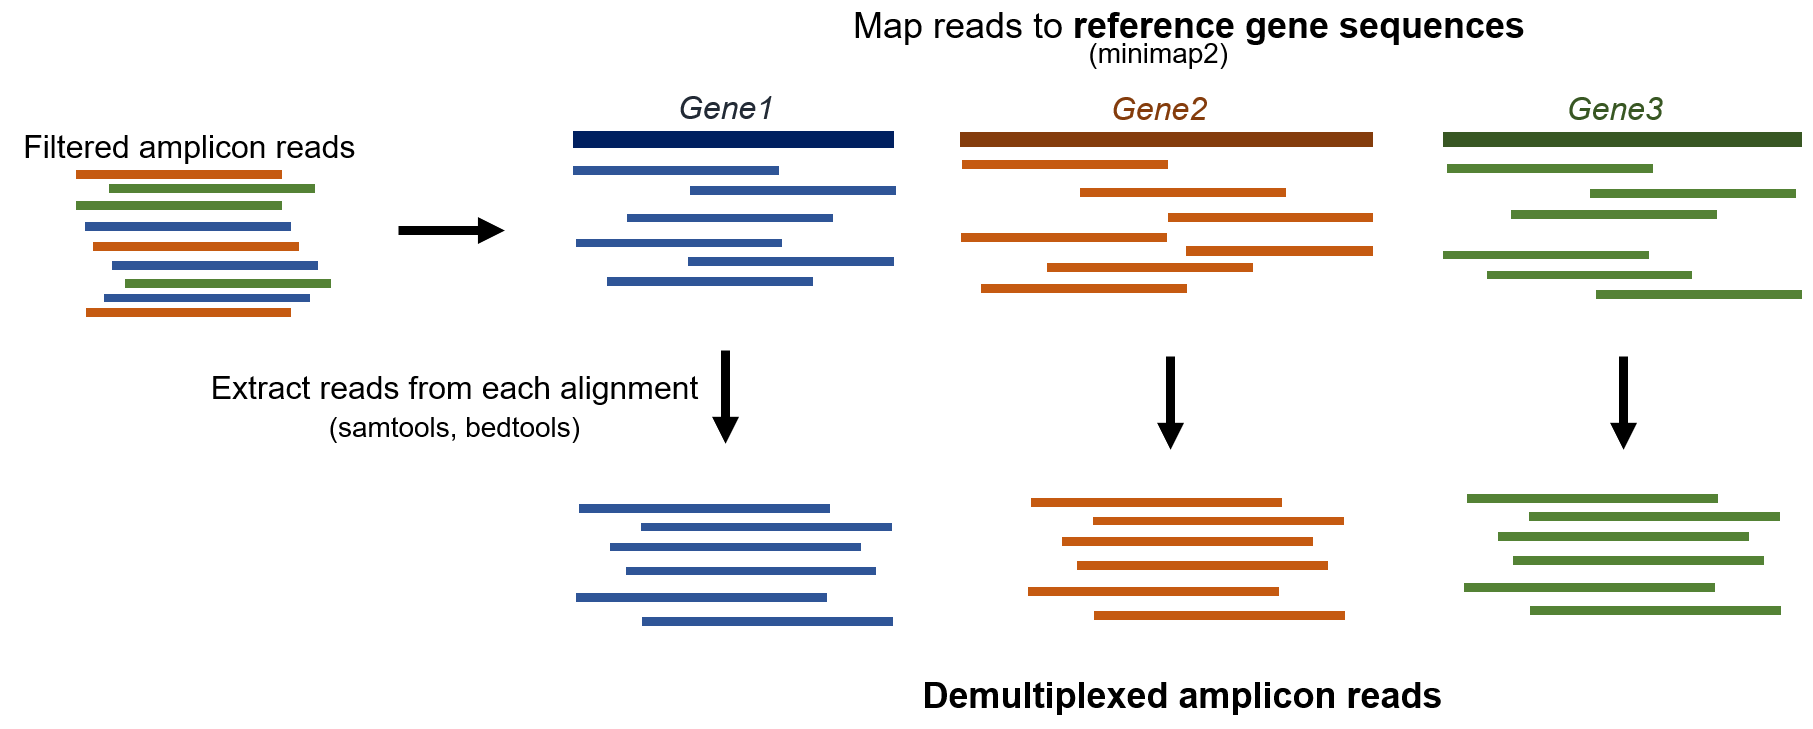
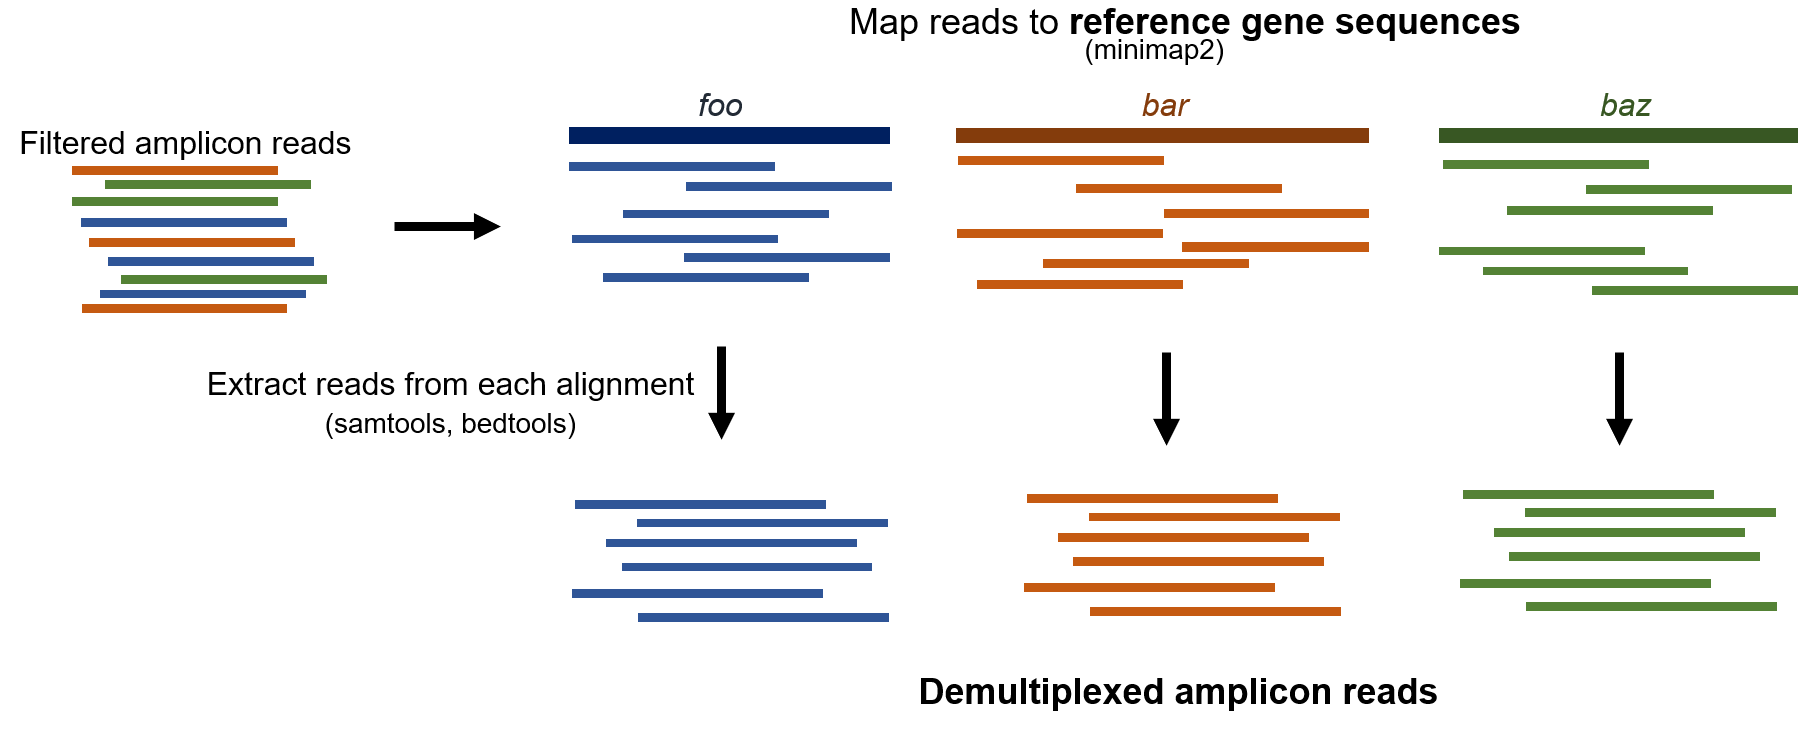
uploads

diff --git a/README.md b/README.md
@@ -58,7 +58,7 @@ First, change into the <code>fungal_ITS</code> directory, where the filtered nan
 Now run the following USEARCH command to cluster our reads. We will set the sequence identity threshold to 0.75 with the <code>-id</code> flag.
 
     $USEARCH -cluster_fast reads.fastq -id 0.75 -strand both \
-    -centroids centroids.id75.fasta course_user> -sizeout
+    -centroids centroids.id75.fasta -sizeout
 
 > Flag explanations from USEARCH documentation:
 > - <code>-cluster_fast</code>: Cluster sequences using UCLUST algorithm
@@ -156,12 +156,110 @@ What are your BLAST results?
 
 Stripe rust (*Puccinia striiformis f. sp. tritici; **Pst***) is a fungal pathogen of wheat that poses devastating threat to agriculture. At present, there are a few stripe rust lineages (i.e. genetically distinct pathogen populations) spreading throughout Australia. Rapid and accurate lineage identification will enable more effective disease surveillance. 
 
-**Here, we will perform genotyping for three different Australian stripe rust lineages (Pst104, Pst134, Pst198) at a gene** (let's call it "*foo*" gene). For each lineage, we will reconstruct consensus sequence for the *foo* gene using long-read amplicons. 
+Here, the aim is to perform lineage genotyping for three different stripe rust samples (Pst104, Pst134, Pst198) at a gene (let's call it "*foo*" gene). To save time, **we will reconstruct consensus sequence of the *foo* gene using long-read amplicons, for Pst104 only.**
 
-### The problem
+***
+### 1. Demultiplex the amplicons originating from different genes
 
-As you might remember, during amplicon library preparation, the *foo* amplicons were mixed with amplicons from other genes, and they were ligated with the same barcode. After sequencing these amplicons all together, we will need some means to demultiplex them.
+**The problem:** During amplicon library preparation for sample Pst104, the *foo* amplicons were mixed with amplicons from other genes, and they were ligated with the same barcode. After sequencing them all together, we will need a way to demultiplex them in the read file, so we can deal with *foo* amplicons only. 
 
 ![pooled amplicons from foo, bar and baz genes](./fig/pooled_amplicons.png)
 
-Solution: Given that we know the genes which these amplicons orginated from, we can simply map the pooled reads to the reference gene sequences to separate them.
+**The solution** is pretty simple - given that we know which genes these amplicons orginated from, we can simply map the pooled reads to the reference gene sequences to separate them. 
+
+![demultiplex_pooled_amplicons](./fig/workflow2.png)
+
+Let's do it! First navigate to the <code>pst_lineage_genotyping</code> directory to find the filtered nanopore read file <code>pst104_reads.fastq</code>, which contains reads of mixed amplicons from sample Pst104E. 
+
+	cd ~/amplicon_prac/pst_lineage_genotyping
+	less pst104_reads.fastq 	# To inspect the content
+
+Create a directory for demultiplexing.
+
+	mkdir demultiplex
+	cd demultiplex
+
+To separate the amplicon reads by genes, map them to reference gene sequences in <code>ref_genes.fasta</code> with <code>minimap2</code>.
+
+	minimap2 -ax map-ont -t 1 ../ref_genes.fasta ../pst104_reads.fastq > pst104_genes.bam
+	
+Sort and index the output alignment BAM file with <code>samtools</code>. This step enables more efficient read data access and processing in the BAM file.
+
+	samtools sort -O BAM pst104_genes.bam -o pst104_genes.sorted.bam
+	samtools index pst104_genes.sorted.bam
+
+Subset the **sorted** alignment BAM file at *foo* gene only, using<code>samtools</code>. 
+
+	samtools view -b pst104_genes.sorted.bam "foo" > pst104_foo.bam
+
+Extract the reads from the *foo* alignment, to generate a fastq file using <code>bedtools</code>. 
+
+	bedtools bamtofastq -i pst104_foo.bam -fq pst104_foo.fastq
+
+Now you have a fastq file containing amplicon reads that can be confidently mapped to the *foo* gene, which means they are (very likely) amplicons from *foo*. 
+
+(Of course, for non-haploid organisms, this mapping approach might not be the most ideal because it can result in a mixture of reads from differing but similar haplotype sequences. However, phasing is not in the scope of this tutorial, so we will skip that for now.)
+
+### 2. Run the amplicon consensus sequence recontruction pipeline
+
+Now that we have the *foo* amplicon reads ready in <code>pst104_foo.fastq</code>, we can reconstruct the consensus sequence of *foo* for sample Pst104. This part is basically the same as what we have learnt in Case Study 1. 
+
+First move the <code>pst104_foo.fastq</code> file out of the demultiplex directory.
+
+	mv pst104_foo.fastq ..
+	cd ..
+	
+
+#### Generating a draft sequence
+
+Cluster reads using USEARCH
+
+	$USEARCH -cluster_fast pst104_foo.fastq -id 0.75 -strand both \
+	-centroids centroids.id75.fasta -sizeout
+	
+Extract top centroid sequence as the draft
+
+	awk "/^>/ {n++} n>1 {exit} {print}" centroids.id75.fasta > draft.fasta
+
+####  Generate and polish the consensus sequence
+
+Create <code>polish</code> directory to store the intermediate files.
+
+	mkdir polish
+	cd polish
+
+Simply copy and paste the following to polish the consensus sequence four times.
+
+Round 1
+
+	mini_align -i ../pst104_foo.fastq -r ../draft.fasta -m -p polish.round1 -t 1 && \
+	medaka consensus polish.round1.bam polish.round1.hdf --model r941_min_sup_g507 --threads 1 && \
+	medaka stitch polish.round1.hdf ../draft.fasta polish.round1.fasta
+
+Round 2
+
+	mini_align -i ../pst104_foo.fastq -r polish.round1.fasta -m -p polish.round2 -t 1 && \
+	medaka consensus polish.round2.bam polish.round2.hdf --model r941_min_sup_g507 --threads 1 && \
+	medaka stitch polish.round2.hdf ../draft.fasta polish.round2.fasta
+
+Round 3
+
+	mini_align -i ../pst104_foo.fastq -r polish.round2.fasta -m -p polish.round3 -t 1 && \
+	medaka consensus polish.round3.bam polish.round3.hdf --model r941_min_sup_g507 --threads 1 && \
+	medaka stitch polish.round3.hdf ../draft.fasta polish.round3.fasta
+
+Round 4
+
+	mini_align -i ../pst104_foo.fastq -r polish.round3.fasta -m -p polish.round4 -t 1 && \
+	medaka consensus polish.round4.bam polish.round4.hdf --model r941_min_sup_g507 --threads 1 && \
+	medaka stitch polish.round4.hdf ../draft.fasta polish.round4.fasta
+
+This <code>polish.round4.fasta</code> is your final polished consensus sequence reconstructed using *foo* long-read amplicons of sample Pst104E! You can make a copy outside of the <code>polish</code> directory if you want:
+
+	cp polish.round4.fasta ../pst104_foo.consensus.fasta
+
+### 3. (Optional) Multiple sequence alignment
+
+To inspect the genetic variants differing among the three above mentioned stripe rust lineages, I have supplied a fasta file in <code>~/amplicon_prac/pst_lineage_genotyping/extra</code> which lists the *foo* gene consensus sequences reconstructed from long-read amplicons from all three different samples (Pst104, Pst198 and Pst134). Please feel free to align these sequences in alignment visualisation tools such as Geneious. If you don't have them on your laptop, you can work with other attendees, or see the screenshots in the same folder!
+
+Thank you for taking part in the course, I hope you enjoyed it and have learnt something about high-accuracy amplicon consensus reconstruction using Nanopore reads. Please feel free to contact me at Rita.Tam@anu.edu.au. 
